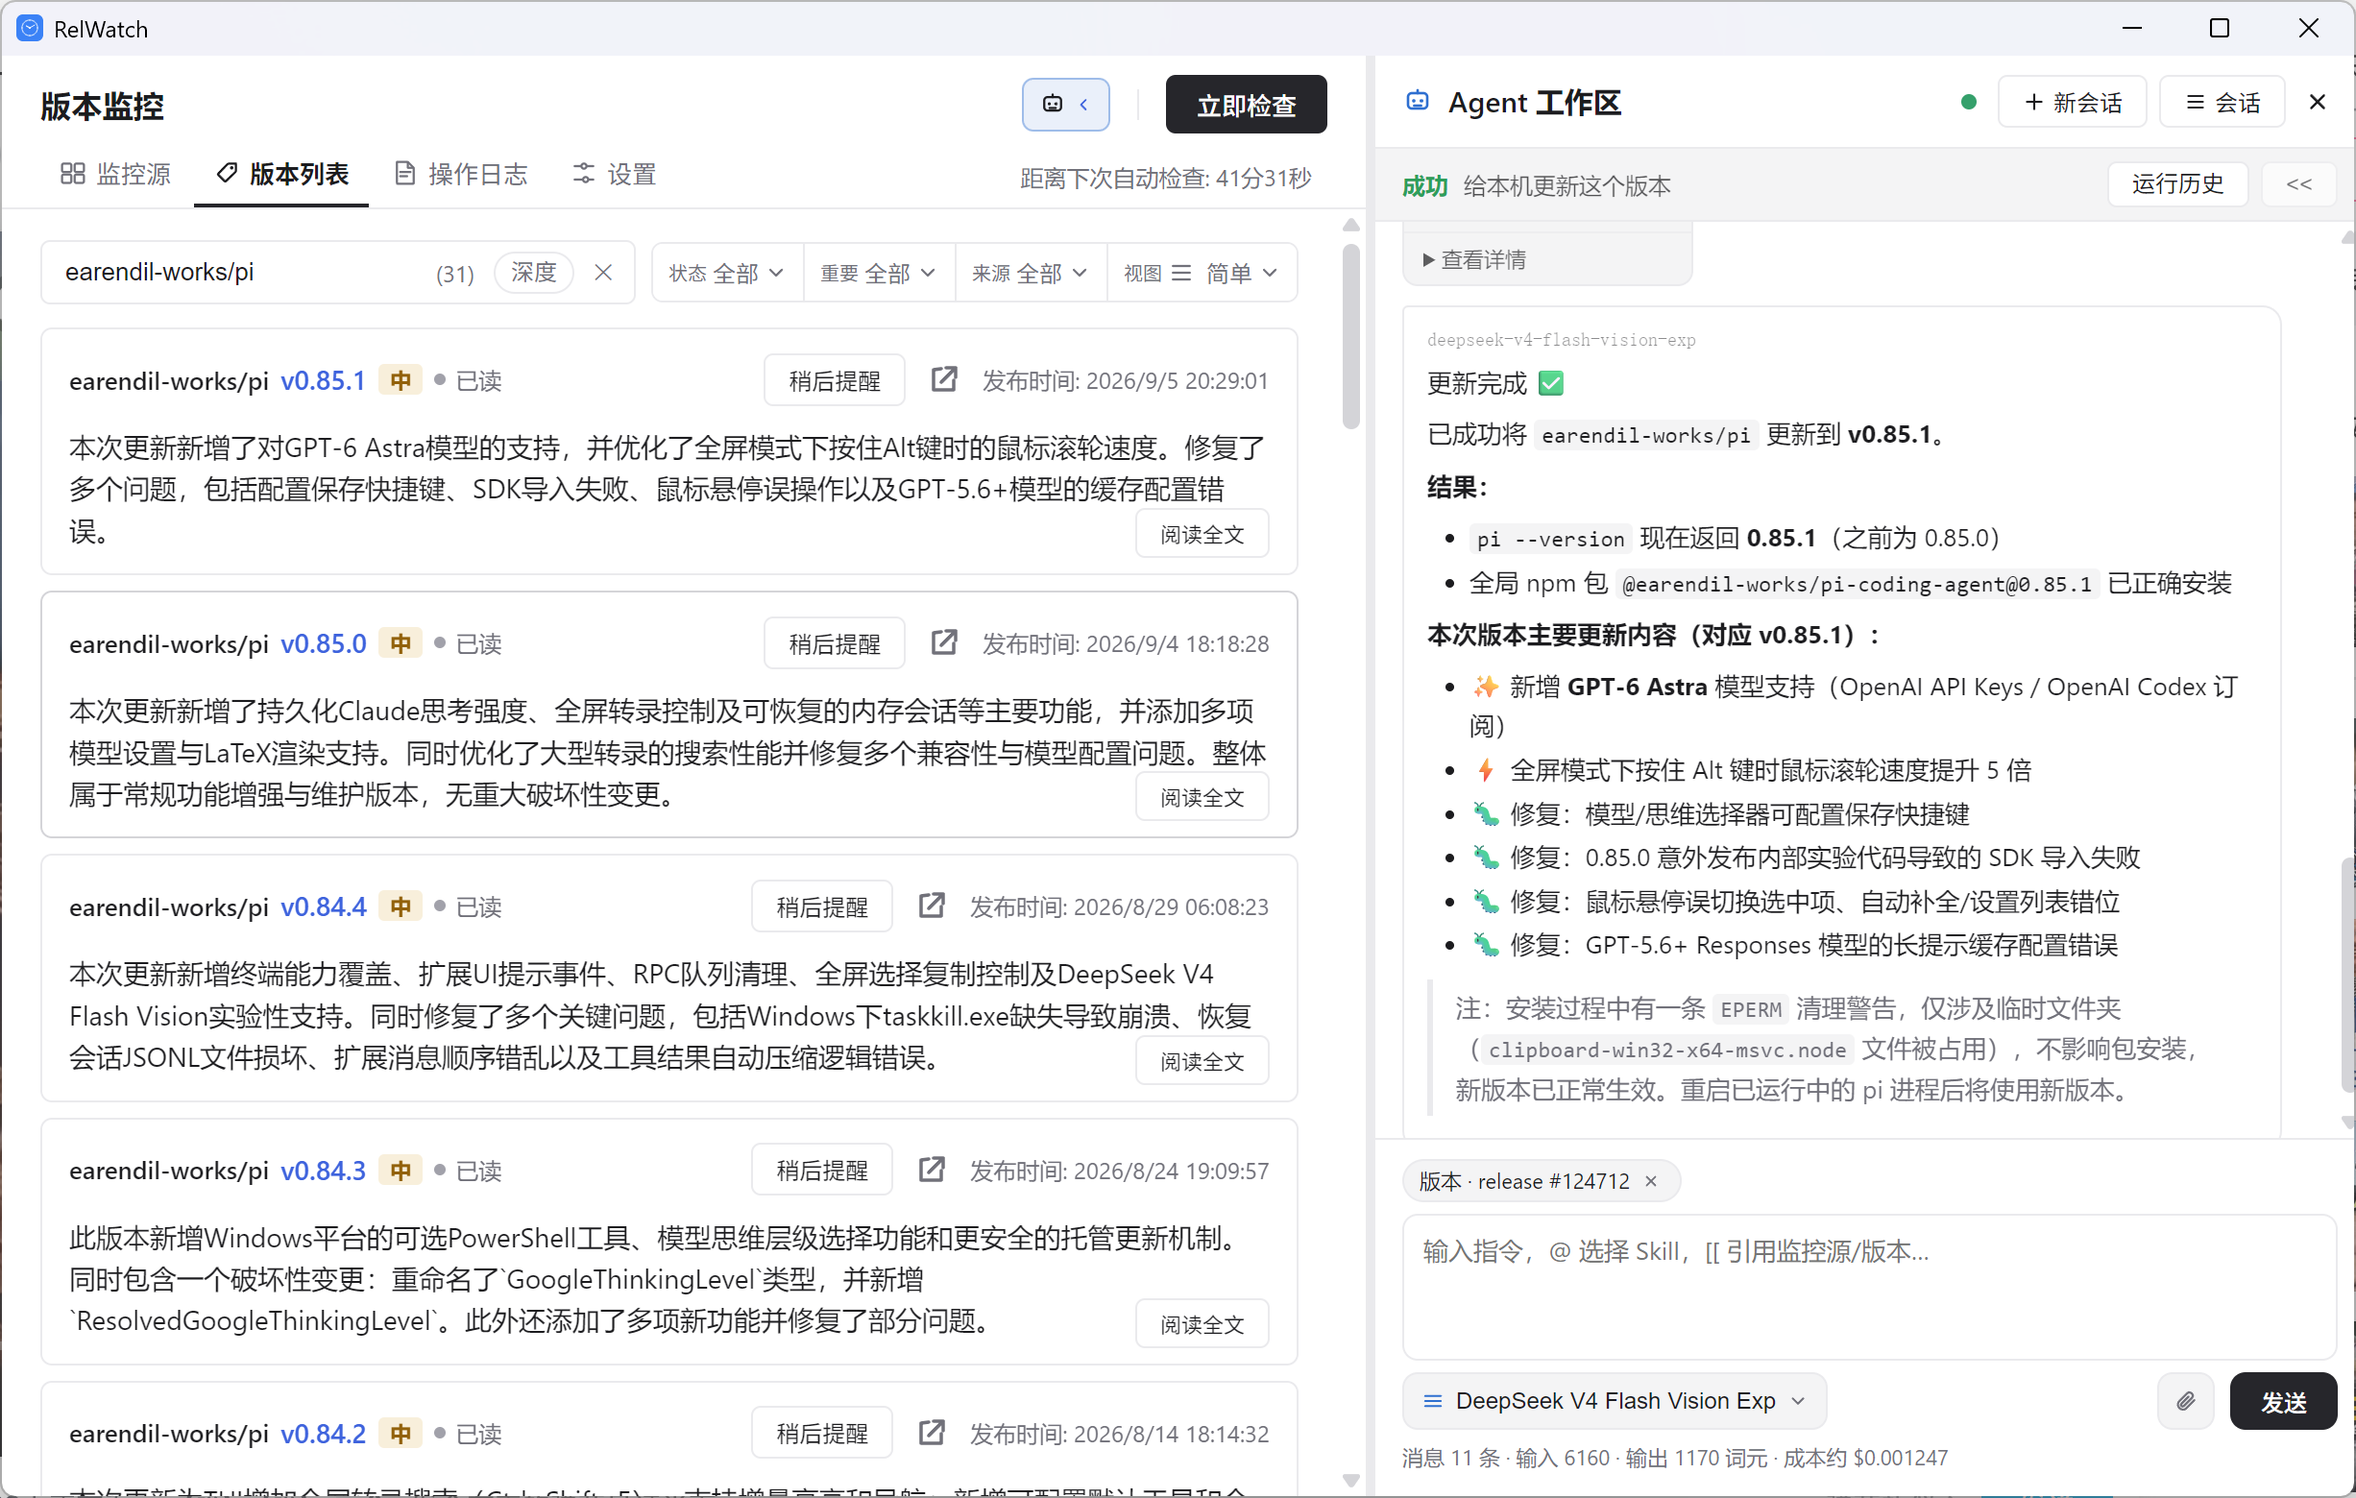
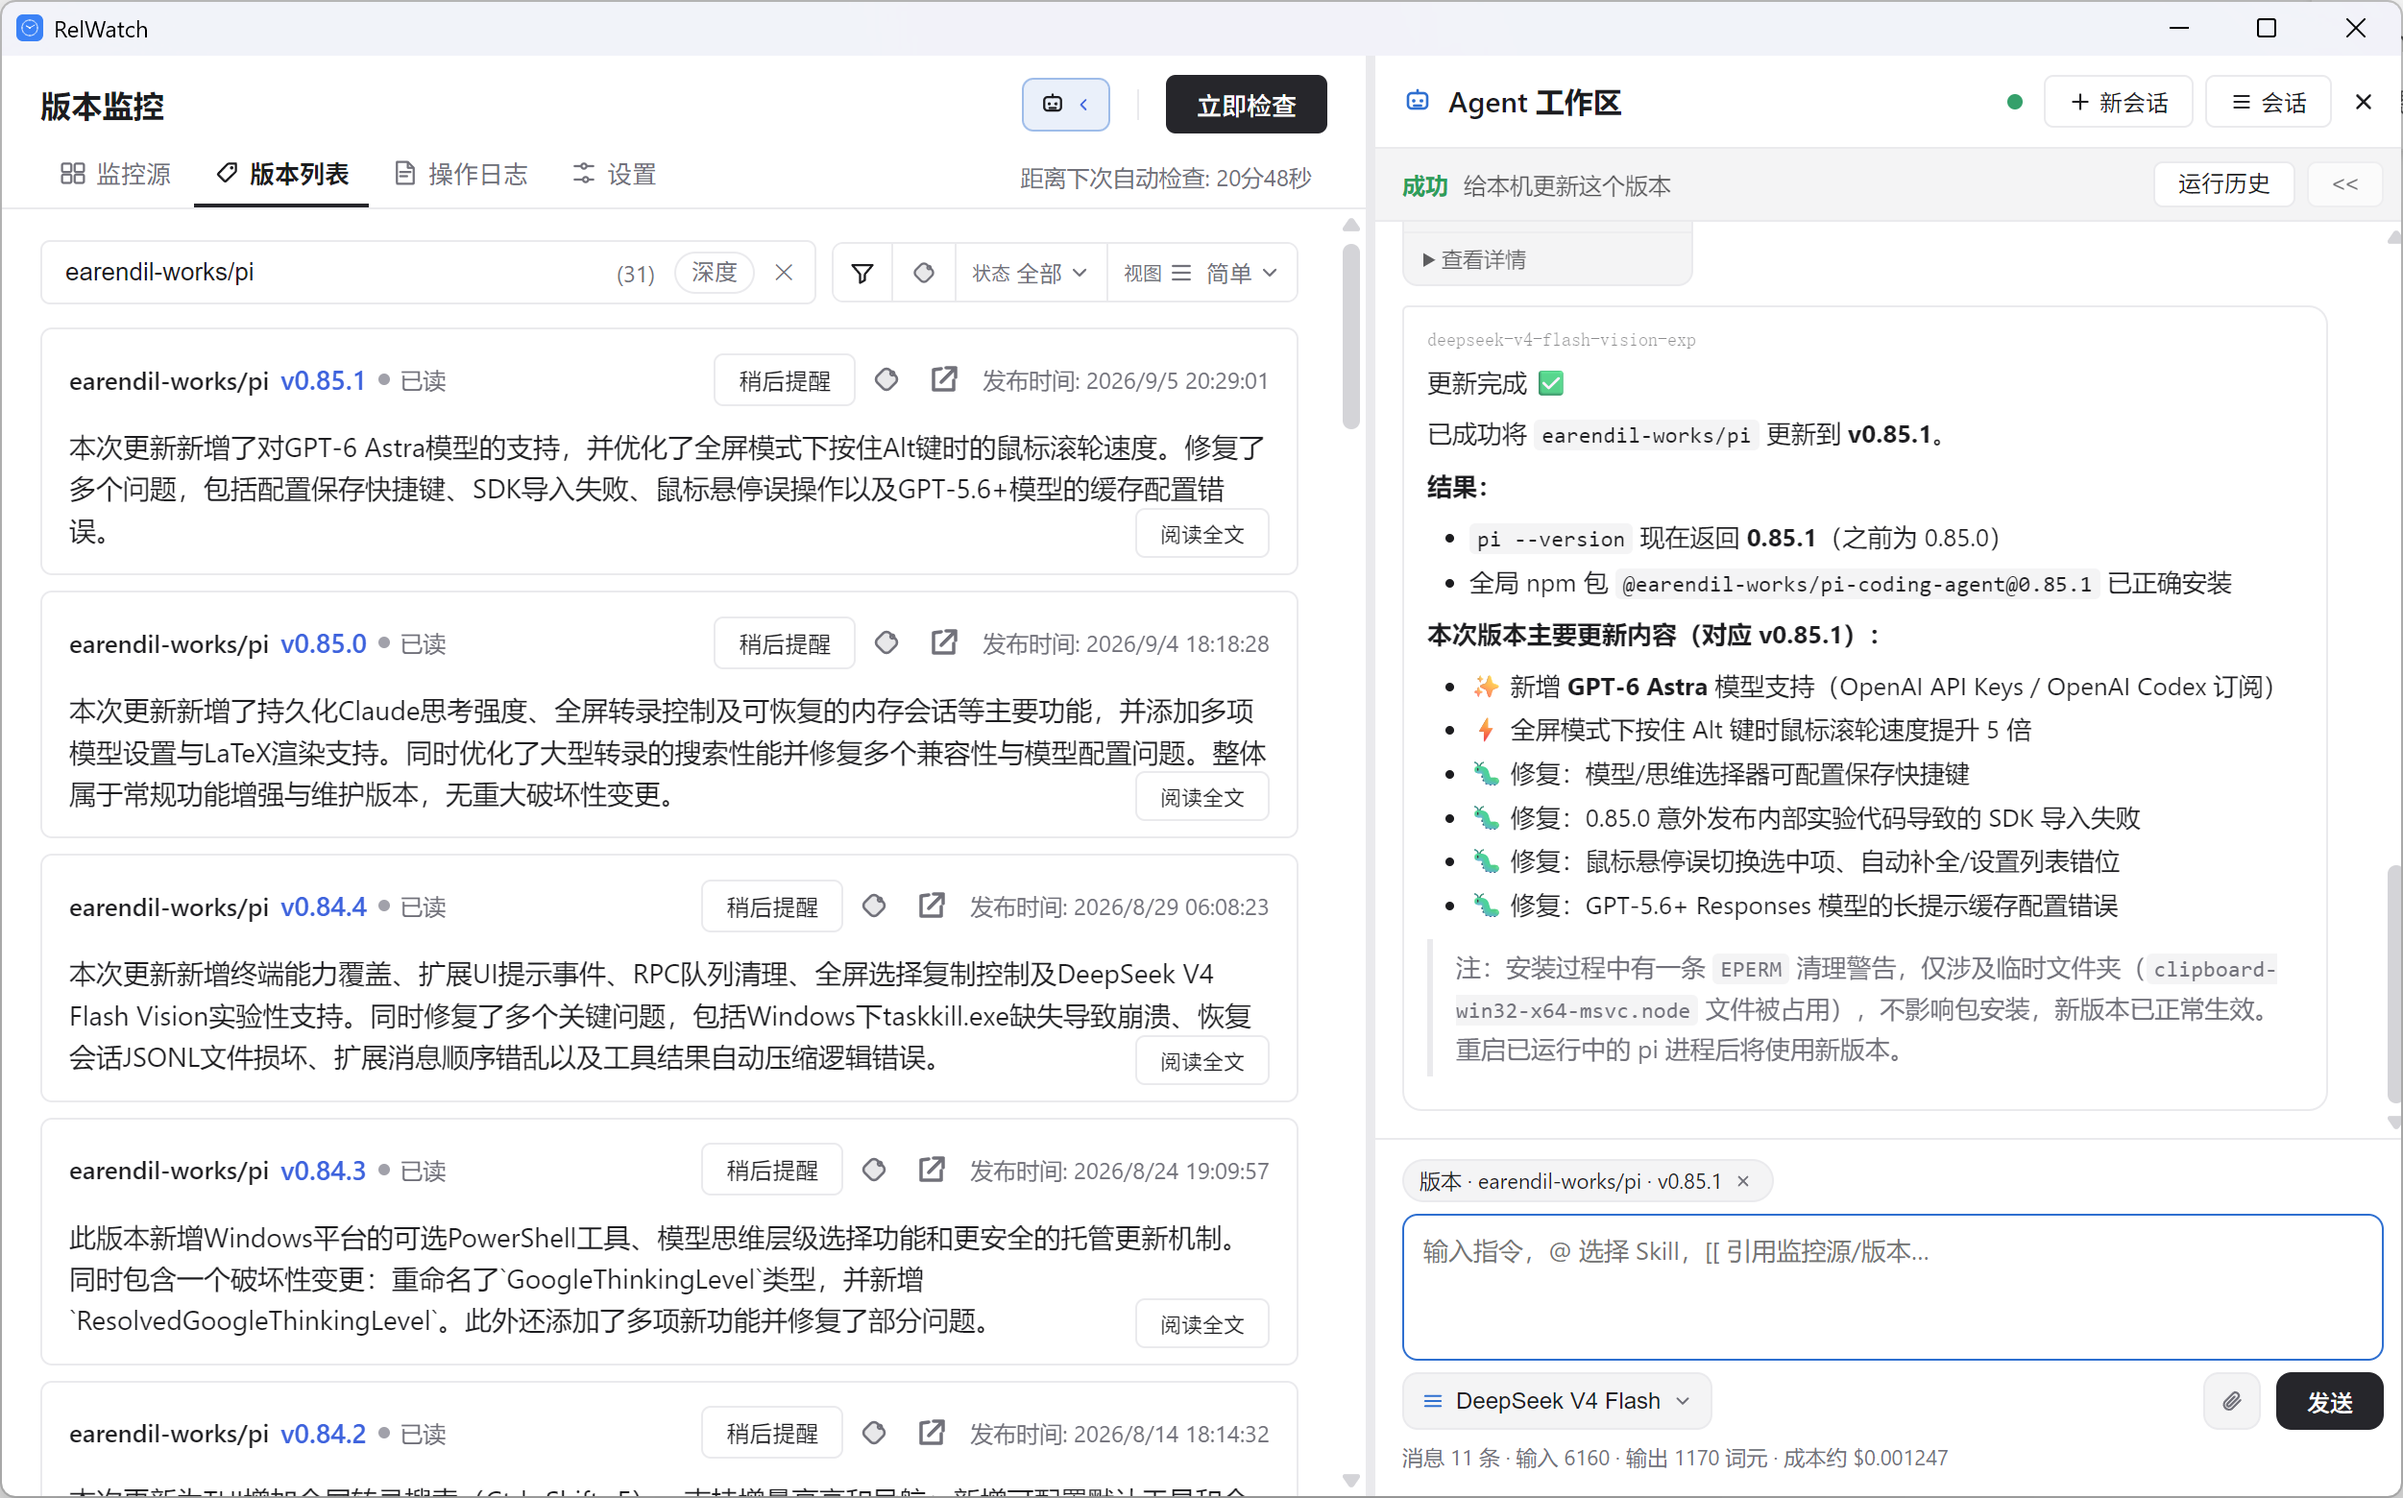
docs: 版本浏览小节新增全文搜索与标记分组条目，更新版本列表与 Agent 工作区截图

diff --git a/README.md b/README.md
@@ -18,8 +18,10 @@ GitHub Release 监控桌面应用，使用 DeepSeek 开发。支持 GitHub / Hug
 
 | 功能 | 说明 |
 |------|------|
-| 聚合视图 | 多源版本流统一聚合，支持搜索、按状态（未读/已读）与来源类型筛选、排序 |
+| 聚合视图 | 多源版本流统一聚合 |
 | 日历视图 | 按日期热力图展示发布记录，重要程度以语义色区分 |
+| 全文搜索 | 关键词分散命中仓库、tag、标题、摘要等字段实时过滤，长正文/译文支持深度搜索 |
+| 标记分组 | 六色旗标标记版本，可按已标记或指定颜色筛选浏览 |
 | 版本详情 | Markdown 渲染、图片复制、外链守卫、拖拽调整大小、上/下一版本导航 |
 | 虚拟滚动 | 长列表流畅滚动，Markdown 渲染带缓存 |
 
@@ -41,7 +43,7 @@ GitHub Release 监控桌面应用，使用 DeepSeek 开发。支持 GitHub / Hug
 
 | 功能 | 说明 |
 |------|------|
-| 内置聊天面板 | 右侧 Agent 工作区直接与本地 pi Agent 对话（当前仅支持 [pi](https://github.com/earendil-works/pi)） |
+| 内置聊天面板 | 右侧 Agent 工作区与本地 Agent 对话（当前仅支持 [pi](https://github.com/earendil-works/pi)） |
 | 上下文拖入 | 将监控源、版本记录直接拖入对话作为上下文，让 Agent 基于具体 Release 工作 |
 | 分析 + 处理 | 不止于分析解读：Agent 可执行实际操作，如整理摘要、生成报告、修改文件、运行命令等任务处理 |
 | Skill 调用 | 输入 `@` 快速选择 Skill，扩展 Agent 能力 |
